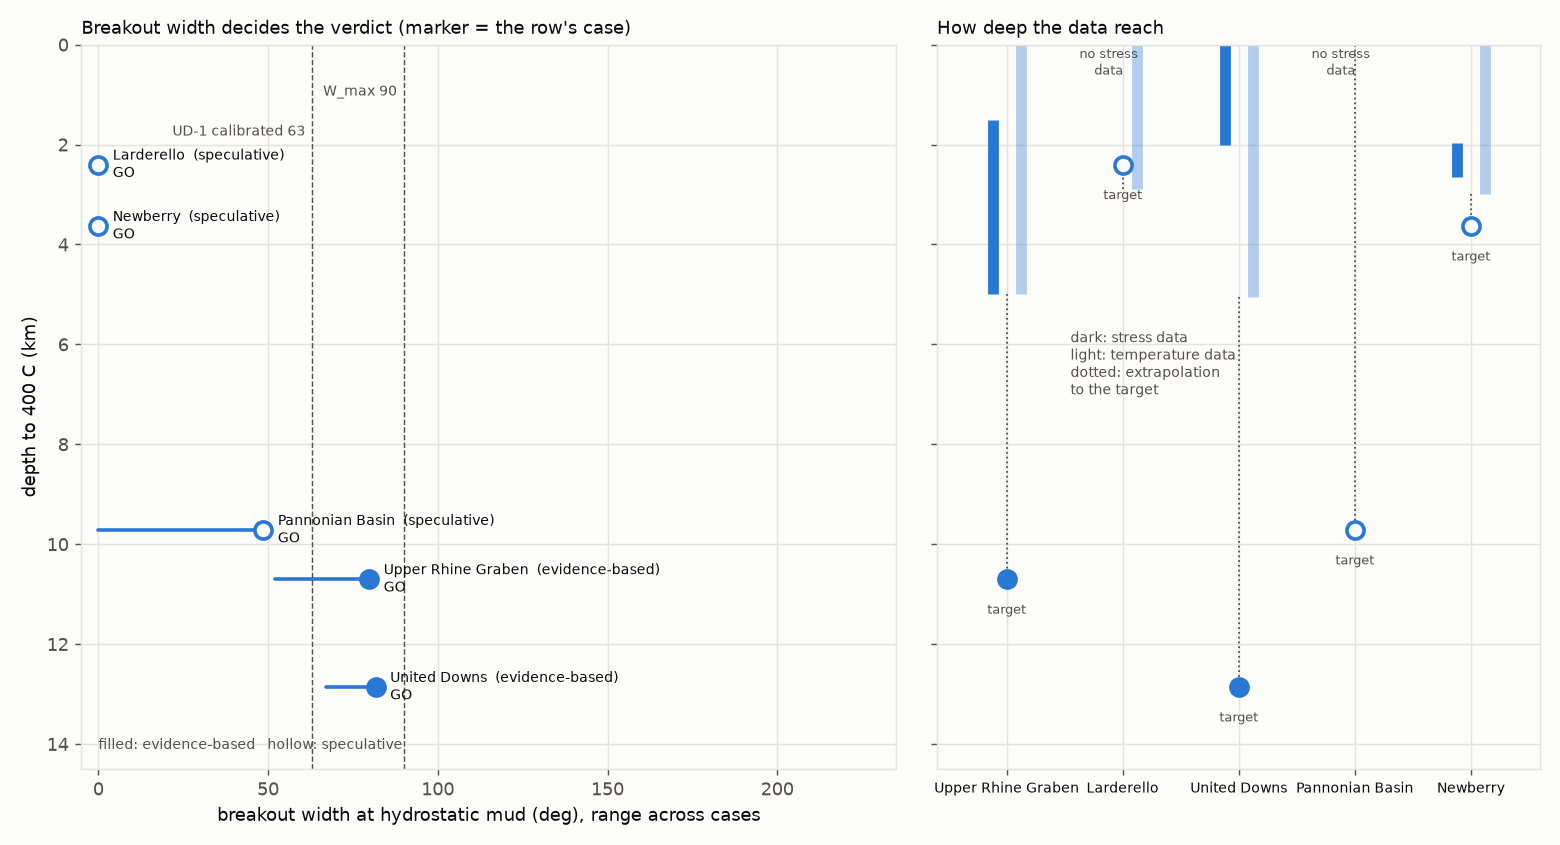
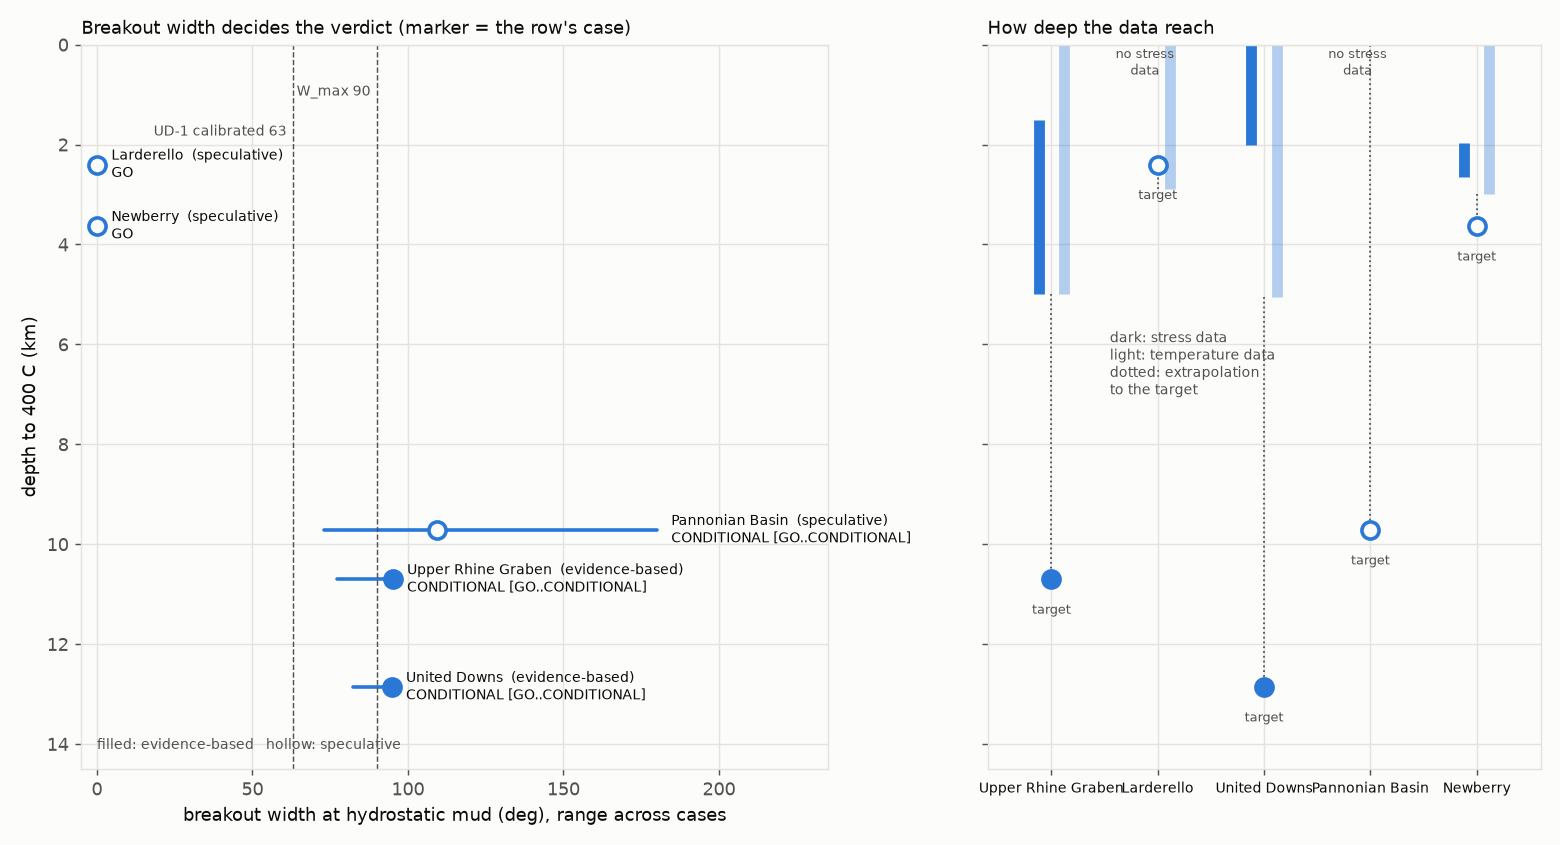
Sites: commercial pipe as the base case, circulating pressure, and the flow for GO
The pipe is now the best-insulated one that can be bought, TK-Drakon coated
pipe; dual-wall pipe, which exists only in a modelling study, is a
sensitivity. The annular friction is added to the fluid weight on the
fracture bound, with the breakout bound kept at static weight. Each site
also reports the lowest flow at which the same pipe gives GO within the pump
limit, flagged where it exceeds the rate FORGE 16B was drilled at.

diff --git a/src/site_evaluation.py b/src/site_evaluation.py
@@ -266,7 +266,7 @@ def thermal_hoop_stress(T_rock, T_wall):
 
 
 def stability_inputs(site, z, T_rock, v10=False, mu=None, UCS=None,
-                     T_wall=None, thermal=True, W_max=C.BREAKOUT_W_MAX_DEG):
+                     T_wall=None, thermal=True, W_max=C.BREAKOUT_W_MAX_DEG, ecd_SG=0.0):
     """Stress state, frictional admissibility, breakout and mud window for
     every stress and strength case at depth z.
 
@@ -314,7 +314,7 @@ def stability_inputs(site, z, T_rock, v10=False, mu=None, UCS=None,
             SHmax = SHmax_lim
         if not v10:
             window = mud_window(Shmin, SHmax, Pp, z, P_mud, T_rock, T_wall=T_wall,
-                                UCS=UCS, dsigma_T=dsigma_T, W_max=W_max)
+                                UCS=UCS, dsigma_T=dsigma_T, W_max=W_max, ecd_SG=ecd_SG)
         cases.append(dict(window=window, T_wall=T_wall, dsigma_T=dsigma_T,
             UCS=C.UCS if UCS is None else UCS, strength_label=s_label,
             label=p.label + (f", {s_label}" if len(strengths) > 1 else ""),
@@ -415,8 +415,15 @@ def describe_width(width_deg):
 
 def mud_window(Shmin, SHmax, Pp, z, Pw_hydro, T_rock, T_wall=None, UCS=None,
                dsigma_T=0.0, W_max=C.BREAKOUT_W_MAX_DEG, margin_SG=C.MUD_MARGIN_SG,
-               T0=C.WALL_T0):
+               T0=C.WALL_T0, ecd_SG=0.0):
     """Mud window and drillability verdict, judged on breakout width.
+
+    The two bounds are checked under the conditions that set them. Breakout,
+    the lower bound, at static mud weight: with the pumps off, at every
+    connection and trip, the wall sees only the static column. Fracture, the
+    upper bound, at circulating pressure: the static mud plus ecd_SG, the
+    annular friction loss as an equivalent density, must stay below Shmin less
+    the margin. ecd_SG = 0 is the static check on both.
 
     Lower bound: the lightest mud keeping the breakout lobe at or below W_max,
     and never below pore pressure (no underbalanced drilling). Upper bound:
@@ -432,9 +439,9 @@ def mud_window(Shmin, SHmax, Pp, z, Pw_hydro, T_rock, T_wall=None, UCS=None,
     sg = C.MUD_SG_GRAD * z                       # Pa per unit SG at this depth
     width = lambda Pw: m5.breakout_width(SHmax, Shmin, Pw, Pp, T_wall, UCS, dsigma_T)
     Pw_lo = max(m5.mud_for_width(SHmax, Shmin, Pp, T_wall, W_max, UCS, dsigma_T), Pp)
-    Pw_hi = Shmin - margin_SG * sg
+    Pw_hi = Shmin - margin_SG * sg - ecd_SG * sg
     w_hydro = width(Pw_hydro)
-    if w_hydro <= W_max:
+    if w_hydro <= W_max and Pw_hydro <= Pw_hi:
         verdict, Pw_mud = "GO", Pw_hydro
     elif Pw_lo <= Pw_hi:
         verdict, Pw_mud = "CONDITIONAL", Pw_lo
@@ -445,7 +452,8 @@ def mud_window(Shmin, SHmax, Pp, z, Pw_hydro, T_rock, T_wall=None, UCS=None,
     return dict(
         verdict=verdict, W_max=W_max, T_wall=T_wall,
         Pw_hydro=Pw_hydro, Pw_lo=Pw_lo, Pw_hi=Pw_hi, open=bool(Pw_lo <= Pw_hi),
-        SG_hydro=Pw_hydro / sg, SG_lo=Pw_lo / sg, SG_hi=Pw_hi / sg,
+        SG_hydro=Pw_hydro / sg, SG_lo=Pw_lo / sg, SG_hi=Pw_hi / sg, ecd_SG=ecd_SG,
+        SG_hi_static=(Shmin - margin_SG * sg) / sg,
         width_hydro=w_hydro, width_hi=width(Pw_hi),
         Pw_mud=Pw_mud,
         overbalance_MPa=None if Pw_mud is None else (Pw_mud - Pw_hydro) / 1e6,
@@ -462,15 +470,19 @@ def worst_verdict(verdicts):
 # ------------------------------------------------------------- the evaluation
 # ------------------------------------------------------------ circulation
 # The site well: Wu et al. (2025)'s deep-well design (well_geometry.wu2025_well)
-# to the target, with the casing shoes moved up for shallow targets. Pipe types
-# are tried from best insulated to worst; vacuum-insulated tubing is not a drill
-# pipe, so it is a sensitivity only.
-SITE_PIPES = (wg.DUAL_WALL, wg.TK_DRAKON, wg.INTERNALLY_COATED, wg.EXTERNALLY_COATED,
-              wg.CONVENTIONAL)
-# The dual-wall pipe's figures come from a modelling study; no such drill pipe
-# is on sale (data/materials.md). The rest can be bought or have been run.
-COMMERCIAL_PIPES = SITE_PIPES[1:]
-SITE_FLOWS = (5, 10, 15, 20, 25, 30, 35, 40, 45, 50, 60, 70, 80)   # kg/s
+# to the target, with the casing shoes moved up for shallow targets. The pipe
+# is the best-insulated one that is commercially available, trying the
+# commercial types from best insulated to worst. The dual-wall pipe's figures
+# come from a modelling study and no such drill pipe is on sale
+# (data/materials.md), so it is a sensitivity, as is vacuum-insulated tubing,
+# which is not a drill pipe.
+SITE_PIPES = (wg.TK_DRAKON, wg.INTERNALLY_COATED, wg.EXTERNALLY_COATED, wg.CONVENTIONAL)
+COMMERCIAL_PIPES = SITE_PIPES
+SITE_FLOWS = (5, 10, 15, 20, 25, 30, 35, 40, 45, 50, 60, 70, 80, 90, 100)   # kg/s
+# The highest flow FORGE 16B was drilled at (rig_hydraulics.csv); a flow above
+# it is reported as unverified for what a rig can deliver.
+FORGE_MAX_FLOW_GPM = 700.0
+GPM = 6.30902e-5   # m^3/s
 Q_FACE_SITE = 30000.0
 FILM_MULT_FORGE = 0.75   # fitted on FORGE 16B (validate_forge16b.py); a sensitivity
 
@@ -490,10 +502,47 @@ def circulate(site, z, geotherm, pipe, m_dot, exposure=None, film_mult=1.0):
               geometry=g, target_rock_T=float(geotherm(z)), Q_face=Q_FACE_SITE,
               friction_heat=True, film_mult=film_mult, P_surface=m1.P_OP, verbose=False)
     old = m1.solve(**kw, t_years=1.0)
-    r = old if exposure is None else m1.solve(**kw, exposure=exposure, init=old)
+    if exposure is None:
+        r = old
+    else:
+        r = m1.solve(**kw, exposure=exposure, init=old)
+        if not r["success"]:
+            r = m1.solve_seeded(exposure, **kw)
     r["old"] = old
     r["hyd"] = m1.hydraulics(m_dot, g, result=r, P_surface=m1.P_OP)
     return r
+
+
+def ecd_sg(run, z):
+    """Annular friction loss of a circulating run as an equivalent density [SG]."""
+    return run["hyd"]["dp_annulus"] / (C.MUD_SG_GRAD * z)
+
+
+def flow_gpm(run):
+    """Volumetric flow [gal/min] at the inlet."""
+    rho_in = float(m1.fluid_props(np.array([run["Td"][0]]), np.array([m1.P_OP]))[0][0])
+    return run["m_dot"] / rho_in / GPM
+
+
+def flow_for_go(site, z, geotherm, pipe, exposure, start, thermal=True):
+    """The lowest flow, from `start` up, at which the verdict is GO within the
+    pump limit and with the bit below its survival limit; None if there is
+    none up to SITE_FLOWS[-1]."""
+    T_rock = float(geotherm(z))
+    for md in (f for f in SITE_FLOWS if f >= start):
+        r = circulate(site, z, geotherm, pipe, md, exposure)
+        if r["hyd"]["over_pump_limit"]:
+            return None
+        if r["T_bottom_delivered"] >= C.BHA_SURVIVAL_TEMP:
+            continue
+        ref, _ = stability_inputs(site, z, T_rock, T_wall=float(r["T_bottom_delivered"]),
+                                  thermal=thermal, ecd_SG=ecd_sg(r, z))
+        if ref["window"]["verdict"] == "GO" and ref["admissible"]["admissible"]:
+            gpm = flow_gpm(r)
+            return dict(m_dot=md, bhct=float(r["T_bottom_delivered"]),
+                        spp=float(r["hyd"]["spp"]), ecd_SG=ecd_sg(r, z), gpm=gpm,
+                        above_forge=gpm > FORGE_MAX_FLOW_GPM)
+    return None
 
 
 def choose_circulation(site, z, geotherm, exposure=None, pipes=SITE_PIPES, film_mult=1.0):
@@ -598,23 +647,23 @@ def evaluate(site: SiteProfile, v10=False, thermal=True, circulation="v1.2"):
     return out
 
 
-def _stability(site, z, T_rock, T_wall, v10=False, thermal=True):
+def _stability(site, z, T_rock, T_wall, v10=False, thermal=True, ecd_SG=0.0):
     """Stability (Models 4 and 5) for a wall temperature, with the three
-    sensitivities."""
+    sensitivities; ecd_SG is the circulating friction on the fracture bound."""
     ref, cases = stability_inputs(site, z, T_rock, v10=v10, T_wall=T_wall,
-                                  thermal=thermal)
+                                  thermal=thermal, ecd_SG=ecd_SG)
     # sensitivities, each a full re-run of the stability check (no Model 1).
     # "No wall cooling" puts the wall at rock temperature: no thermal hoop
     # stress and no strength gain from cooling, i.e. an uncooled hole.
     w63 = f"W_max {C.BREAKOUT_W_MAX_SITE_DEG:.0f}"
     sens = {} if v10 else {
         "no wall cooling": stability_inputs(site, z, T_rock, T_wall=T_rock,
-                                            thermal=False),
+                                            thermal=False, ecd_SG=ecd_SG),
         w63: stability_inputs(site, z, T_rock, T_wall=T_wall, thermal=thermal,
-                              W_max=C.BREAKOUT_W_MAX_SITE_DEG),
+                              W_max=C.BREAKOUT_W_MAX_SITE_DEG, ecd_SG=ecd_SG),
         f"no wall cooling, {w63}": stability_inputs(
             site, z, T_rock, T_wall=T_rock, thermal=False,
-            W_max=C.BREAKOUT_W_MAX_SITE_DEG)}
+            W_max=C.BREAKOUT_W_MAX_SITE_DEG, ecd_SG=ecd_SG)}
     UCS = ref["UCS"]
     Sv, Shmin, SHmax = ref["Sv"], ref["Shmin"], ref["SHmax"]
     P_fluid = site.rho_fluid_grad * z
@@ -665,12 +714,14 @@ def _evaluate_v12(site, thermal=True):
     circ = choose_circulation(site, z, geotherm, exposure)
     run = circ["run"]
     T_wall = float(run["T_bottom_delivered"])
+    ecd = ecd_sg(run, z)
 
-    out = _stability(site, z, T_rock, T_wall, thermal=thermal)
+    out = _stability(site, z, T_rock, T_wall, thermal=thermal, ecd_SG=ecd)
     out["m_min"], out["m1"] = circ["m_dot"], run
     out["circulation"] = "v1.2"
     out["circ"] = dict(pipe=circ["pipe"], m_dot=circ["m_dot"], conflict=circ["conflict"],
-                       rop=rop, hyd=run["hyd"], bhct=T_wall,
+                       rop=rop, hyd=run["hyd"], bhct=T_wall, ecd_SG=ecd,
+                       gpm=flow_gpm(run), above_forge=flow_gpm(run) > FORGE_MAX_FLOW_GPM,
                        bhct_one_year=float(run["old"]["T_bottom_delivered"]),
                        tried=[dict(pipe=t["pipe"].name, survival_flow=t["survival_flow"],
                                    cleaning_flow=t["cleaning_flow"],
@@ -687,26 +738,33 @@ def _evaluate_v12(site, thermal=True):
     out["MW_prod"] = run["Q_product"] / 1e6
     out["Tret_prod"] = run["T_return_surface"]
 
-    # circulation sensitivities, each with its own wall temperature
+    # the lowest flow at which the same pipe gives GO, within the pump limit
+    out["circ"]["go"] = flow_for_go(site, z, geotherm, circ["pipe"], exposure,
+                                    circ["m_dot"], thermal)
+
+    # circulation sensitivities, each with its own wall temperature and
+    # circulating friction
+    film = circulate(site, z, geotherm, circ["pipe"], circ["m_dot"], exposure, FILM_MULT_FORGE)
     alt = {
-        "rock exposed 1 yr": run["old"]["T_bottom_delivered"],
-        f"film x{FILM_MULT_FORGE}": circulate(site, z, geotherm, circ["pipe"], circ["m_dot"],
-                                              exposure, FILM_MULT_FORGE)["T_bottom_delivered"],
+        "rock exposed 1 yr": (run["old"]["T_bottom_delivered"], ecd),
+        f"film x{FILM_MULT_FORGE}": (film["T_bottom_delivered"], ecd_sg(film, z)),
+        "static fracture bound": (T_wall, 0.0),
     }
+    dual = choose_circulation(site, z, geotherm, exposure, pipes=(wg.DUAL_WALL,))
+    out["circ"]["dual_wall"] = dict(pipe=dual["pipe"].name, m_dot=dual["m_dot"],
+                                    conflict=dual["conflict"],
+                                    bhct=float(dual["run"]["T_bottom_delivered"]),
+                                    spp=float(dual["run"]["hyd"]["spp"]))
+    alt["dual-wall pipe (not manufactured)"] = (dual["run"]["T_bottom_delivered"],
+                                                ecd_sg(dual["run"], z))
     vit = choose_circulation(site, z, geotherm, exposure, pipes=(wg.VACUUM_INSULATED,))
     out["circ"]["vacuum"] = dict(m_dot=vit["m_dot"], conflict=vit["conflict"],
                                  bhct=float(vit["run"]["T_bottom_delivered"]))
-    alt["vacuum-insulated pipe"] = vit["run"]["T_bottom_delivered"]
-    com = choose_circulation(site, z, geotherm, exposure, pipes=COMMERCIAL_PIPES)
-    out["circ"]["commercial"] = dict(pipe=com["pipe"].name, m_dot=com["m_dot"],
-                                     conflict=com["conflict"],
-                                     bhct=float(com["run"]["T_bottom_delivered"]),
-                                     spp=float(com["run"]["hyd"]["spp"]))
-    alt["commercial pipe only"] = com["run"]["T_bottom_delivered"]
+    alt["vacuum-insulated pipe"] = (vit["run"]["T_bottom_delivered"], ecd_sg(vit["run"], z))
     out["circ_sensitivity"] = {}
-    for k, Tw in alt.items():
-        r, c = stability_inputs(site, z, T_rock, T_wall=float(Tw), thermal=thermal)
-        out["circ_sensitivity"][k] = dict(stress=r, stress_cases=c, T_wall=float(Tw))
+    for k, (Tw, e) in alt.items():
+        r, c = stability_inputs(site, z, T_rock, T_wall=float(Tw), thermal=thermal, ecd_SG=e)
+        out["circ_sensitivity"][k] = dict(stress=r, stress_cases=c, T_wall=float(Tw), ecd_SG=e)
     return out
 
 

diff --git a/src/comparative_sites.py b/src/comparative_sites.py
@@ -321,8 +321,9 @@ def print_table(title, sites, results):
 
 def classify_circ_sensitivity(o, key):
     """A verdict with the wall temperature from a circulation sensitivity:
-    "rock exposed 1 yr", "film x0.75" (FORGE's fitted annulus film) or
-    "vacuum-insulated pipe"."""
+    "dual-wall pipe (not manufactured)", "static fracture bound" (no
+    circulating friction on the upper bound), "rock exposed 1 yr", "film x0.75"
+    (FORGE's fitted annulus film) or "vacuum-insulated pipe"."""
     s = (o.get("circ_sensitivity") or {}).get(key)
     if s is None:
         return None
@@ -344,45 +345,50 @@ def change_reason(o, old):
 
 def print_circulation(title, sites, results, olds):
     lim, vmin = m1.PUMP_LIMIT / 1e6, m1.HOLE_CLEANING_V
-    hdr = (f"{'Site':<26}{'pipe':>18}{'flow':>6}{'SPP':>7}{'v_ann':>7}{'BHCT':>6}{'1 yr':>6}"
-           f"{'heat':>6}  {'verdict':<30}{'earlier model':<30}{'why'}")
-    print("=" * 150)
+    hdr = (f"{'Site':<26}{'pipe':>17}{'flow':>6}{'gpm':>6}{'SPP':>6}{'ECD':>6}{'v_ann':>6}"
+           f"{'BHCT':>6}{'1 yr':>6}{'heat':>6}  {'verdict':<30}{'GO at':<26}{'earlier model':<30}")
+    print("=" * len(hdr))
     print(title)
-    print("=" * 150)
+    print("=" * len(hdr))
     print(hdr)
-    print("-" * 150)
+    print("-" * len(hdr))
     for s, o, old in zip(sites, results, olds):
         c = o["circ"]
         h = c["hyd"]
         short = s.name.split("(")[0].strip()[:25]
         spp = f"{h['spp']/1e6:.1f}" + ("!" if h["over_pump_limit"] else "")
         va = f"{h['v_ann_min']:.2f}" + ("" if h["cleans_hole"] else "!")
-        print(f"{short:<26}{c['pipe'].name:>18}{c['m_dot']:6.0f}{spp:>7}{va:>7}"
-              f"{c['bhct']:6.0f}{c['bhct_one_year']:6.0f}{o['MW_prod']:6.1f}  "
-              f"{classify(o)[2]:<30}{classify(old)[2]:<30}{change_reason(o, old)}")
+        g = c["go"]
+        go = ("already GO" if classify(o)[2].startswith("GO") else
+              "none within the limit" if g is None else
+              f"{g['m_dot']:.0f} kg/s, {g['gpm']:.0f} gpm, {g['spp']/1e6:.0f} MPa"
+              + ("*" if g["above_forge"] else ""))
+        print(f"{short:<26}{c['pipe'].name:>17}{c['m_dot']:6.0f}{c['gpm']:6.0f}{spp:>6}"
+              f"{c['ecd_SG']:6.3f}{va:>6}{c['bhct']:6.0f}{c['bhct_one_year']:6.0f}"
+              f"{o['MW_prod']:6.1f}  {classify(o)[2]:<30}{go:<26}{classify(old)[2]:<30}")
+        print(f"{'':<26}   against the earlier model: {change_reason(o, old)}")
         if c["conflict"]:
             print(f"{'':<26}   conflict: {c['conflict']}")
-    print("-" * 150)
-    print(f"  flow kg/s; SPP standpipe pressure, MPa (limit {lim:.1f}, ! over); v_ann lowest annular")
-    print(f"  velocity, m/s (hole-cleaning reference {vmin:.3f}, ! under); BHCT bottom-hole circulating")
-    print("  temperature, C, the wall temperature for the verdict; 1 yr: the same with the rock")
-    print("  exposed for a year, as before; heat: heat returned while drilling, early life, single")
-    print("  loop, MW. Earlier model: the single 0.02 W/m K pipe at the lowest survivable flow.")
+    print("-" * len(hdr))
+    print(f"  flow kg/s and gal/min; SPP standpipe pressure, MPa (limit {lim:.1f}, ! over); ECD the")
+    print("  annular friction as an equivalent density, SG, added to the mud on the fracture bound;")
+    print(f"  v_ann lowest annular velocity, m/s (hole-cleaning reference {vmin:.3f}, ! under); BHCT")
+    print("  bottom-hole circulating temperature, C, the wall temperature for the verdict; 1 yr: the")
+    print("  same with the rock exposed for a year; heat: heat returned while drilling, early life,")
+    print("  single loop, MW. GO at: the lowest flow at which the same pipe gives GO within the pump")
+    print(f"  limit; * above the {se.FORGE_MAX_FLOW_GPM:.0f} gal/min FORGE 16B was drilled at, so unverified")
+    print("  for what a rig can deliver. Earlier model: the single 0.02 W/m K pipe at the lowest")
+    print("  survivable flow.")
     print()
-    keys = ("commercial pipe only", "rock exposed 1 yr", f"film x{se.FILM_MULT_FORGE}",
-            "vacuum-insulated pipe")
-    print(f"{'Circulation sensitivities':<26}" + "".join(f"{k:<42}" for k in keys))
+    keys = ("dual-wall pipe (not manufactured)", "static fracture bound", "rock exposed 1 yr",
+            f"film x{se.FILM_MULT_FORGE}", "vacuum-insulated pipe")
+    print("Circulation sensitivities (verdict, wall temperature)")
     for s, o in zip(sites, results):
         short = s.name.split("(")[0].strip()[:25]
-        cells = [f"{classify_circ_sensitivity(o, k)} ({o['circ_sensitivity'][k]['T_wall']:.0f} C)"
-                 for k in keys]
-        print(f"{short:<26}" + "".join(f"{x:<42}" for x in cells))
-    print("  commercial pipe only: the best pipe that can be bought (no dual-wall):")
-    for s, o in zip(sites, results):
-        c = o["circ"]["commercial"]
-        short = s.name.split("(")[0].strip()[:25]
-        print(f"    {short:<26}{c['pipe']} at {c['m_dot']} kg/s, SPP {c['spp']/1e6:.1f} MPa"
-              + (f"; conflict: {c['conflict']}" if c["conflict"] else ""))
+        print(f"  {short}")
+        for k in keys:
+            v = o["circ_sensitivity"][k]
+            print(f"    {k:<36}{classify_circ_sensitivity(o, k)} ({v['T_wall']:.0f} C)")
     print()
 
 
@@ -394,7 +400,8 @@ def golden_rows(results):
             verdict=classify(o)[2], pipe=c["pipe"].name, m_dot=float(c["m_dot"]),
             bhct=float(c["bhct"]), bhct_one_year=float(c["bhct_one_year"]),
             spp_MPa=float(c["hyd"]["spp"]) / 1e6, v_ann=float(c["hyd"]["v_ann_min"]),
-            MW=float(o["MW_prod"]),
+            ecd_SG=float(c["ecd_SG"]), MW=float(o["MW_prod"]),
+            go_m_dot=None if c["go"] is None else float(c["go"]["m_dot"]),
             sensitivities={k: classify_sensitivity(o, k) for k in o["sensitivity"]}
             | {k: classify_circ_sensitivity(o, k) for k in o["circ_sensitivity"]})
     return rows

diff --git a/tests/test_v12_site_table.py b/tests/test_v12_site_table.py
@@ -24,10 +24,11 @@ def test_site_table_is_unchanged(results):
     now = golden_rows(results)
     assert now.keys() == pinned.keys()
     for site, row in pinned.items():
-        for k in ("verdict", "pipe", "m_dot", "sensitivities"):
+        for k in ("verdict", "pipe", "m_dot", "go_m_dot", "sensitivities"):
             assert now[site][k] == row[k], (site, k)
         for k in ("bhct", "bhct_one_year", "spp_MPa", "v_ann", "MW"):
             assert now[site][k] == pytest.approx(row[k], abs=0.5), (site, k)
+        assert now[site]["ecd_SG"] == pytest.approx(row["ecd_SG"], abs=0.005), site
 
 
 def test_flow_rule(results):
@@ -40,6 +41,23 @@ def test_flow_rule(results):
         assert c["bhct"] < se.C.BHA_SURVIVAL_TEMP
         assert c["hyd"]["v_ann_min"] >= m1.HOLE_CLEANING_V
         assert c["hyd"]["spp"] <= m1.PUMP_LIMIT
+
+
+def test_base_case_pipe_is_commercial(results):
+    for o in results:
+        assert o["circ"]["pipe"] in se.COMMERCIAL_PIPES
+        assert "dual-wall pipe (not manufactured)" in o["circ_sensitivity"]
+
+
+def test_flow_for_go_is_a_go(results):
+    """Where a higher flow gives GO, it is within the pump limit, keeps the bit
+    below the tool limit, and is at least the flow the verdict uses."""
+    for o in results:
+        g = o["circ"]["go"]
+        if g is not None:
+            assert g["spp"] <= m1.PUMP_LIMIT
+            assert g["bhct"] < se.C.BHA_SURVIVAL_TEMP
+            assert g["m_dot"] >= o["circ"]["m_dot"]
 
 
 def test_wall_temperature_is_the_chosen_runs_bhct(results):

diff --git a/tests/test_breakout_width_and_mud_window.py b/tests/test_breakout_width_and_mud_window.py
@@ -205,3 +205,16 @@ def test_classify_inadmissible_stress_is_never_go():
 def test_all_round_failure_is_labelled_as_yielding():
     assert se.describe_width(180.0) == "wall yields all round"
     assert se.describe_width(63.3) == "63 deg breakout"
+
+
+def test_circulating_friction_narrows_only_the_fracture_bound():
+    """The breakout bound is set at static mud; the annular friction (ECD) is
+    added to the mud only on the fracture bound."""
+    import site_evaluation as se
+    MPa, z = 1e6, 4000.0
+    args = (60 * MPa, 100 * MPa, 40 * MPa, z, 40 * MPa, 150.0)
+    a = se.mud_window(*args, UCS=100 * MPa)
+    b = se.mud_window(*args, UCS=100 * MPa, ecd_SG=0.05)
+    assert b["SG_lo"] == pytest.approx(a["SG_lo"])
+    assert b["SG_hi"] == pytest.approx(a["SG_hi"] - 0.05)
+    assert b["SG_hi_static"] == pytest.approx(a["SG_hi"])
